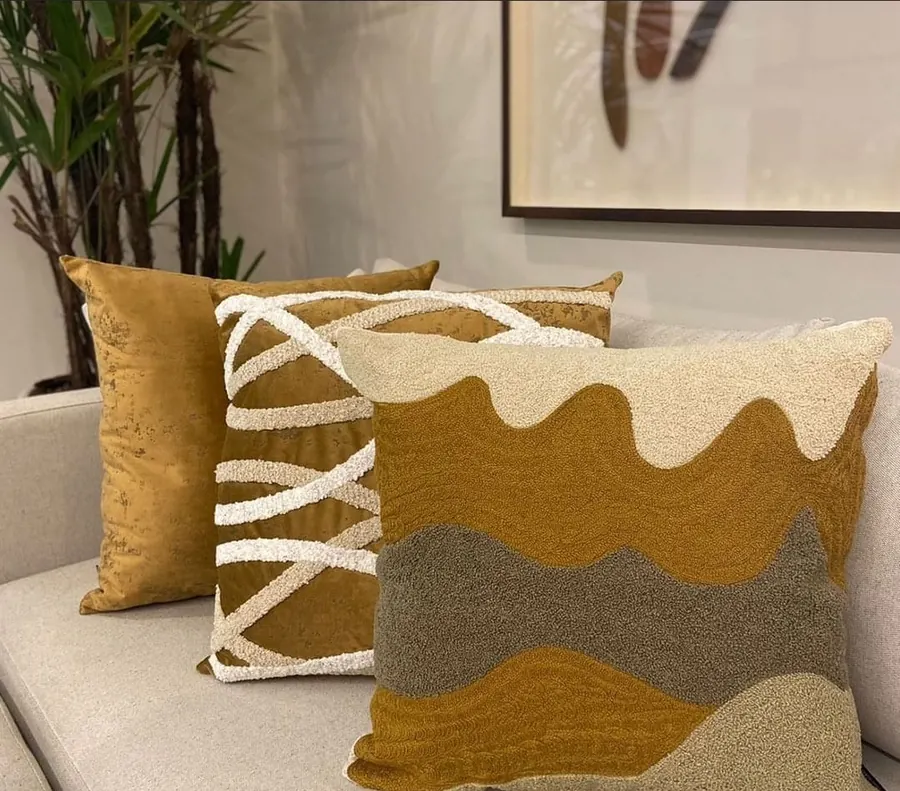
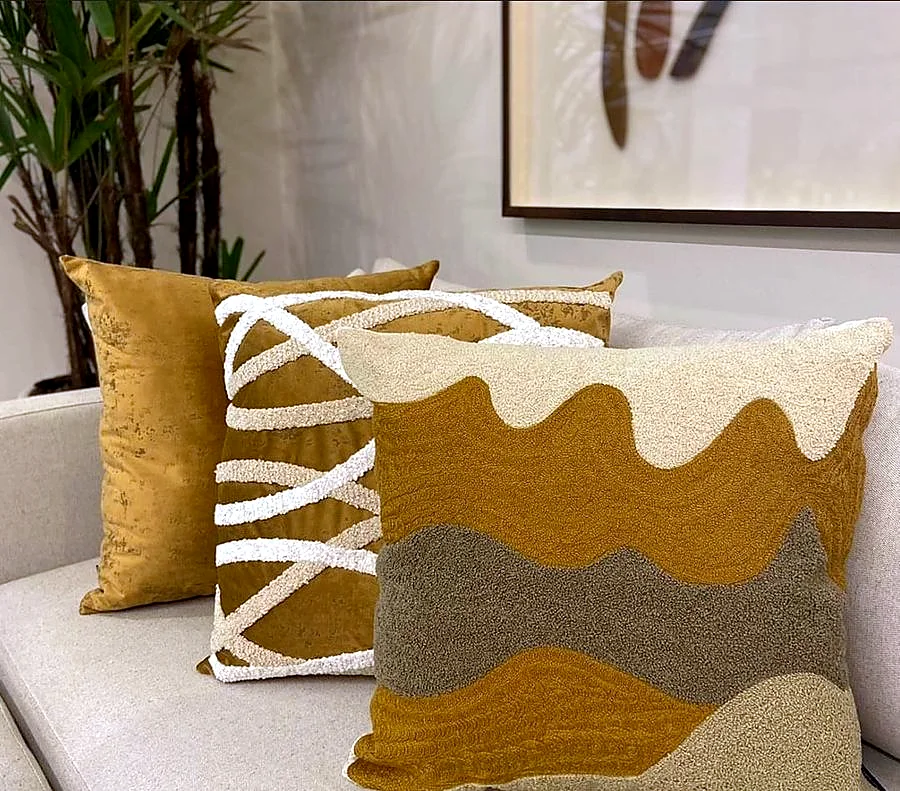
Prévia v6: fotos reais tratadas (luz, cor, nitidez; proporção original), menos repetição, link do Instagram

diff --git a/index.html b/index.html
@@ -82,6 +82,8 @@ nav.menu .sub{color:#8f857a;font-size:.66rem;letter-spacing:.28em;text-transform
 .legenda{display:flex;gap:14px;padding:14px 26px 0;font-size:.72rem;text-transform:uppercase;letter-spacing:.18em;color:var(--cinza)}
 .legenda b{font-weight:500;color:var(--preto)}
 .fotos{display:grid;gap:56px;padding-bottom:84px}
+.insta{text-align:center;padding:0 26px}
+.insta a{display:inline-block;border:1px solid var(--linha);padding:14px 22px;text-transform:uppercase;letter-spacing:.18em;font-size:.68rem;font-weight:500;color:var(--preto)}
 .lojas{background:var(--claro)}
 .loja{border-top:1px solid var(--linha);padding:24px 0}
 .loja h3{text-transform:uppercase;letter-spacing:.2em;font-size:.86rem;color:var(--preto);margin-bottom:.3rem}
@@ -193,7 +195,7 @@ footer img{height:18px;width:auto}
         <p>Sofás, poltronas, chaises, puffes, cabeceiras e camas, com tecido escolhido no mostruário.</p>
         <ul><li>Sofás</li><li>Poltronas</li><li>Puffes</li><li>Cabeceiras</li><li>Camas</li></ul>
         <span class="falta">Falta: foto real de sofá entregue; e quais são fabricados por vocês e quais vêm de fábrica</span></div></a>
-      <a class="cartao" id="l-soltos" href="#contato"><img src="img/mesa-redonda-madeira-cadeiras.webp" alt="Mesa redonda de madeira e cadeiras estofadas" loading="lazy" width="1201" height="1280">
+      <a class="cartao" id="l-soltos" href="#contato"><img src="img/cadeira-estofada-madeira.webp" alt="Cadeira de madeira escura com assento e encosto estofados" loading="lazy" width="900" height="1079">
         <div class="t"><span class="n">03</span><h3>Móveis soltos</h3><p>Mesas, cadeiras, banquetas, aparadores, buffets e área externa: fabricados aqui ou escolhidos entre mais de 150 fábricas do Brasil.</p>
         <ul><li>Mesas</li><li>Cadeiras</li><li>Banquetas</li><li>Aparadores</li><li>Área externa</li></ul></div></a>
       <a class="cartao" id="l-adornos" href="#contato"><img src="img/almofadas-moveis-e-adornos.webp" alt="Almofadas bordadas sobre sofá claro" loading="lazy" width="900" height="791">
@@ -219,8 +221,8 @@ footer img{height:18px;width:auto}
 </section>
 
 <div class="fotos" id="fotos">
-  <figure class="foto-cheia"><img src="img/mesa-redonda-madeira-cadeiras.webp" alt="Mesa redonda de madeira com tampo em raios e cadeiras estofadas" loading="lazy" width="1201" height="1280">
-    <figcaption class="legenda"><b>(01)</b> Mesa redonda · tampo em raios</figcaption></figure>
+  <figure class="foto-cheia"><img src="img/boulevard-espaco-gourmet.webp" alt="Espaço gourmet com estante de madeira, mesa e cadeiras de acrílico no Boulevard das Acácias" loading="lazy" width="1170" height="738">
+    <figcaption class="legenda"><b>(01)</b> Espaço gourmet · Boulevard das Acácias</figcaption></figure>
   <figure class="foto-cheia"><img src="img/cadeira-estofada-madeira.webp" alt="Cadeira de madeira escura com assento e encosto estofados" loading="lazy" width="900" height="1079">
     <figcaption class="legenda"><b>(02)</b> Cadeira em madeira e estofado</figcaption></figure>
   <figure class="foto-cheia"><img src="img/almofadas-moveis-e-adornos.webp" alt="Almofadas bordadas em tons de mostarda e bege sobre sofá claro" loading="lazy" width="900" height="791">
@@ -229,6 +231,7 @@ footer img{height:18px;width:auto}
     <figcaption class="legenda"><b>(04)</b> Área gourmet · Boulevard das Acácias</figcaption></figure>
   <figure class="foto-cheia"><img src="img/boulevard-sala-tv.webp" alt="Sala de TV com poltronas e painel no Boulevard das Acácias" loading="lazy" width="1170" height="738">
     <figcaption class="legenda"><b>(05)</b> Sala de TV · Boulevard das Acácias</figcaption></figure>
+  <p class="insta"><a href="https://www.instagram.com/adentro_moveis/" target="_blank" rel="noopener">Mais obras no Instagram · @adentro_moveis</a></p>
 </div>
 
 <section class="lojas" id="lojas">
